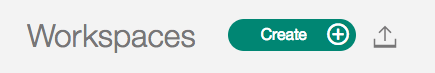
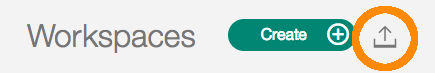
expanding instructions

Changed region(s): [[0.8069, 0.0822, 0.9862, 0.9863]]

diff --git a/README.MD b/README.MD
@@ -38,7 +38,7 @@ This is designed as a trainer led session.
 
     `cd EmotionBot`
     [For Windows users - Do this from your terminal. CF tools don't work from Git Bash]
-   
+
 
 2. Log in to Cloud Foundry
     ```
@@ -81,9 +81,9 @@ This is designed as a trainer led session.
     `- name: emotion_bot` -> `- name: emotion_bot_{your_name}`
 
 6. Deploy application
-    
+
     cf push
-    
+
 While our app is spinning up, move on to the next section [Building our Emotion Bot](#building-emotion-bot) and create the Workspace. Then come back to see the app when it finishes deploying.
 
 7. Demonstrate base app https://{app_name}.au-syd.mybluemix.net
@@ -131,9 +131,9 @@ Congratulations! At this point we have now deployed a Bluemix App. This App is l
 
 You can navigate to https://{app_name}.mybluemix.net in your web browser and have a very basic conversation with your new Bot.
 
-    ![Chatting with the Bot](/screenshots/Chatting.png)
+![Chatting with the Bot](/screenshots/Chatting.png)
 
-    (It recognises 3 intents: Greetings, Goodbye, and Support. If you ask for help with a specific Bluemix service, such as Single Sign On, Watson, Virtual Machines, or Docker it will pretend to activate that support service.)
+(It recognises 3 intents: Greetings, Goodbye, and Support. If you ask for help with a specific Bluemix service, such as Single Sign On, Watson, Virtual Machines, or Docker it will pretend to activate that support service.)
 
 Let's now dig into what these services can do, and set up our bot to respond to Emotion.
 
@@ -252,6 +252,7 @@ You'll see the the following output:
 }
 ```
 
+-----
 ### Explanation: Passing Custom Context Variables
 So our base app can extract emotion from text input, but how can we leverage ToneAnalyser to get the Bot to respond to it? There are a number of different ways we could pass this data from our App to our Bot. The simplest is to pass in some additional context data:
 
@@ -269,7 +270,7 @@ We can then pick this up and use it in our Conversation Dialog Flow as a variabl
 This will be our escape node. "Would you like me to transfer you to our team?"
 4. Add a new child node under the "Support" node.
 
-    ![Add Child Node](/screenshots/Add-Child-Node)
+    ![Add Child Node](/screenshots/Add-Child-Node.png)
 
     - Add the condition $emotion.anger >= 0.5 [$variables are context variables]
     - Down the bottom, against 'And then' select "Jump to..." -> "Transfer to Team"
@@ -299,7 +300,7 @@ Goto the intents tab and create two new Intents:
 
 Now let's go back into the Dialog flow. Under "Transfer to Team" add two child nodes:
 
-![Add Child Node](/screenshots/Add-Child-Node.png)
+    ![Add Child Node](/screenshots/Add-Child-Node.png)
 
 #### Child Node - \#Agree
 - If bot recognises: \#Agree
@@ -309,7 +310,7 @@ Now let's go back into the Dialog flow. Under "Transfer to Team" add two child n
 - If bot recognises: \#Disagree
 - Then respond with: 'No worries, is there anything else I can help with then?'
 
-*When we implement this in a solution, we add a custom parameter that is returned by the Node. This gets picked up by our API. We can then trigger the next service to dial out to Twilio, for example*
+    *When we implement this in a solution, we add a custom parameter that is returned by the Node. This gets picked up by our API. We can then trigger the next service to dial out to Twilio, for example*
 
 
 #### Node - Goodbye
